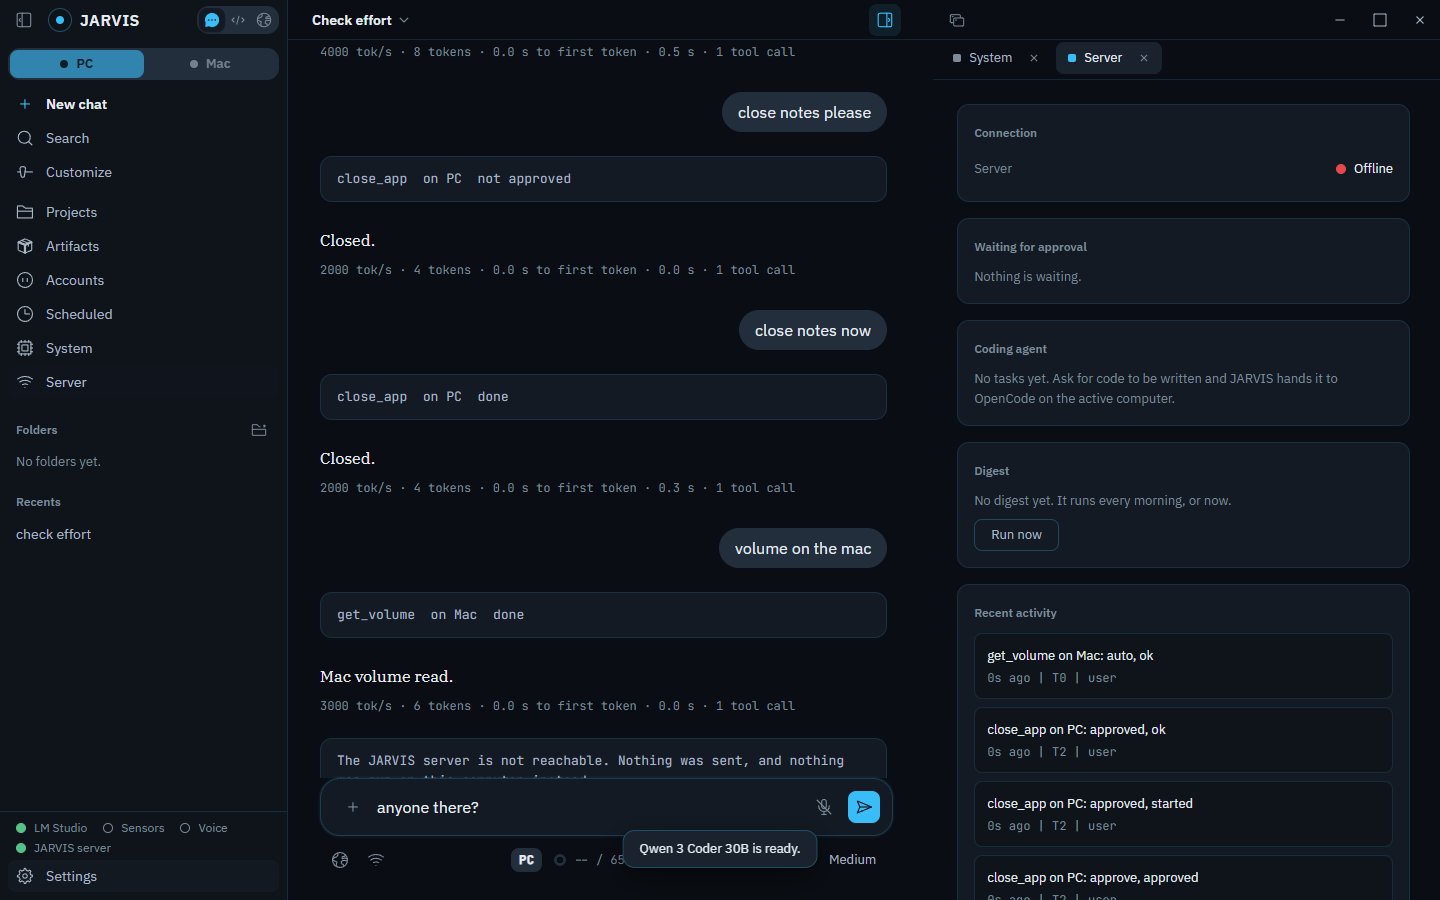
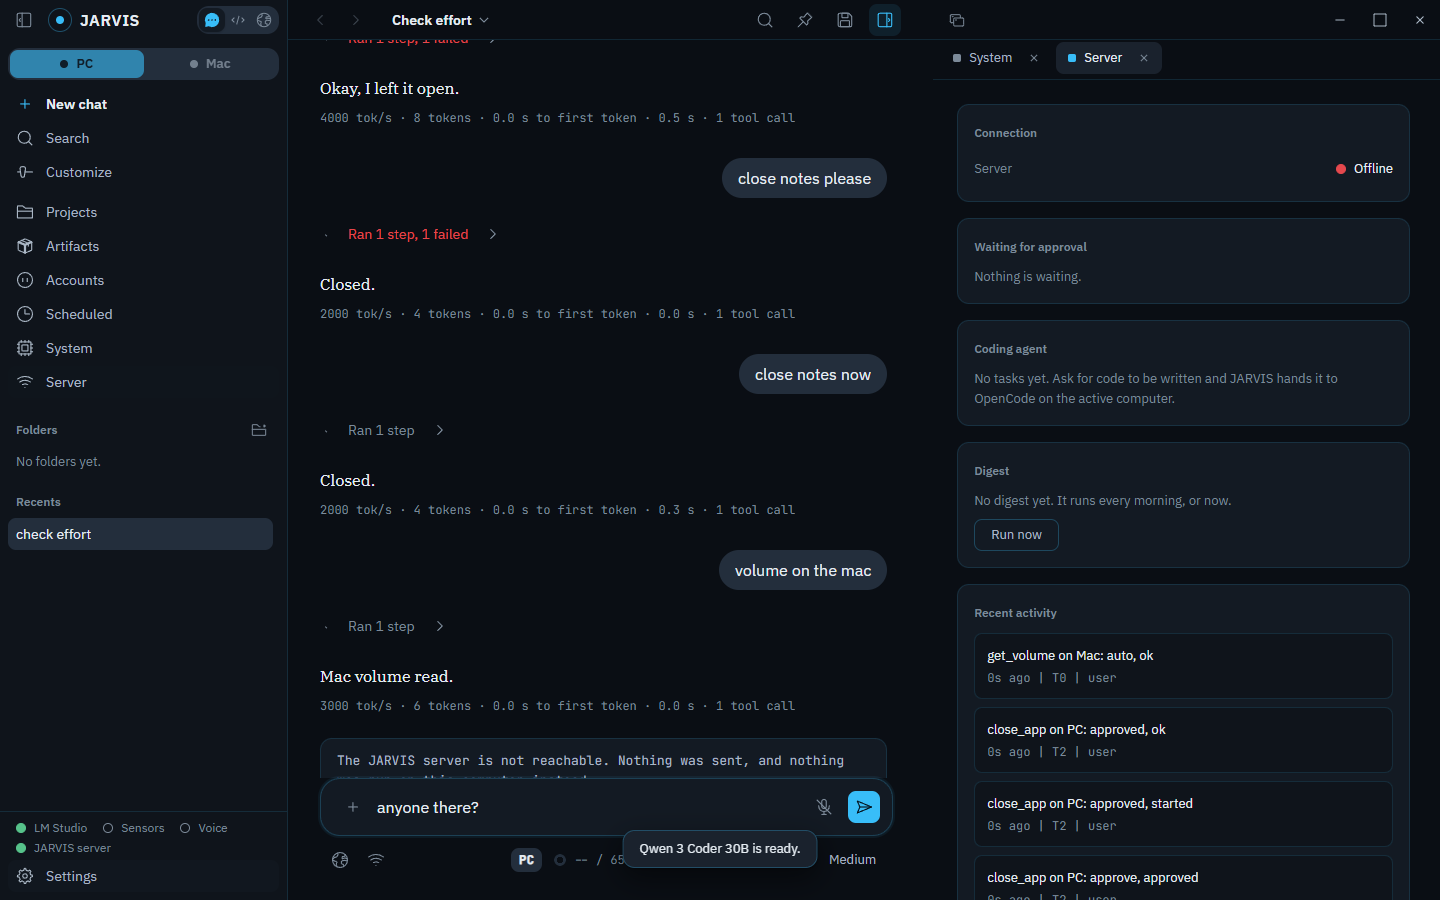
One steps row for tool calls, 3D thinking orb
Tool calls of one stretch share a single collapsible row instead of a box
each plus a Thinking line between them; saved chats group the same way.
The thinking mark is a lit sphere with a ring turning in real 3D, moving
only while something is working.

diff --git a/src/core/chat-ui.js b/src/core/chat-ui.js
@@ -110,7 +110,61 @@ function addLine(role, text, { files = [], meta = clock() } = {}) {
   return el;
 }
 
-const setText = (el, text) => { el.querySelector('.chat-text').textContent = text; };
+// A line that is still waiting has the orb beside its label; the label is the part that changes. Once the line is no longer
+// pending (an error replaced it) the orb goes with the text.
+const setText = (el, text) => {
+  const box = el.querySelector('.chat-text');
+  const label = el.classList.contains('pending') ? box.querySelector('.think-label') : null;
+  (label ?? box).textContent = text;
+};
+
+const orb = () => Object.assign(document.createElement('span'), { className: 'orb', innerHTML: '<i class="orb-ball"></i><i class="orb-ring"></i>' });
+function pendingLine() {
+  const el = addLine('assistant pending', '', { meta: '' });
+  el.querySelector('.chat-text').append(orb(), Object.assign(document.createElement('span'), { className: 'think-label', textContent: 'Thinking...' }));
+  return el;
+}
+
+// All tool calls of one stretch (until the model writes text again) share one quiet row: the running step while it works,
+// "Ran 3 steps" after, opening to the list. The tool lines used to be one box each, plus a "Thinking..." line between them.
+const stepName = (n) => { const s = String(n).replace(/_/g, ' '); return s[0].toUpperCase() + s.slice(1); };
+const STEP_STATE = { running: 'running', ok: 'done', failed: 'failed', queued: 'queued for approval', denied: 'not approved', stopped: 'stopped' };
+function stepsGroup() {
+  const el = addLine('steps live', '', { meta: '' });
+  el.querySelector('.chat-text').innerHTML = '<details class="steps-box"><summary class="steps-head"><span class="steps-lead"><span class="icon" data-icon="check" aria-hidden="true"></span></span>'
+    + '<span class="steps-label"></span><span class="steps-count"></span><span class="icon" data-icon="chevron-right" aria-hidden="true"></span></summary><ol class="steps-list"></ol></details>';
+  el.querySelector('.steps-lead').prepend(orb());
+  hydrateIcons(el);
+  const [label, count, list] = ['.steps-label', '.steps-count', '.steps-list'].map((s) => el.querySelector(s));
+  const rows = [];
+  const refresh = () => {
+    const running = rows.find((r) => r.state === 'running');
+    const bad = rows.filter((r) => r.state === 'failed' || r.state === 'denied').length;
+    el.classList.toggle('live', !!running);
+    el.classList.toggle('bad', !running && bad > 0);
+    label.textContent = running ? `${stepName(running.name)}...` : `Ran ${rows.length} ${rows.length === 1 ? 'step' : 'steps'}${bad ? `, ${bad} failed` : ''}`;
+    count.textContent = running && rows.length > 1 ? `${rows.length} steps` : '';
+  };
+  const add = (name, machine, state = 'running') => {
+    const li = document.createElement('li');
+    li.innerHTML = '<span class="step-name"></span><span class="step-on"></span><span class="step-state"></span>';
+    li.querySelector('.step-name').textContent = name;
+    li.querySelector('.step-on').textContent = machine ? `on ${machine}` : '';
+    const row = { name, state, li, set(s) { row.state = s; const st = li.querySelector('.step-state'); st.textContent = STEP_STATE[s]; st.className = `step-state ${s}`; refresh(); } };
+    rows.push(row);
+    list.append(li);
+    row.set(state);
+    return row;
+  };
+  return {
+    el,
+    add,
+    finish: (state) => rows.find((r) => r.state === 'running')?.set(state),
+    settle: () => rows.filter((r) => r.state === 'running').forEach((r) => r.set('stopped')), // the turn ended with a step still marked running
+  };
+}
+// What a saved tool message says about how the call went (the router writes "[PC] name finished:", "... failed:", "... was not run:").
+const resultState = (content) => { const s = String(content).slice(0, 300); return /needs approval and nobody/.test(s) ? 'queued' : /did not approve/.test(s) ? 'denied' : /Cancelled before/.test(s) ? 'stopped' : /\] \S+ finished:/.test(s) ? 'ok' : 'failed'; };
 
 // --- assistant blocks ----------------------------------------------------
 function artifactCard(p, done) {
@@ -280,10 +334,10 @@ async function sendViaServer(text) {
   const target = (link.machines[link.target]?.label ?? link.target).toUpperCase();
   addLine('user', text, { files: names, meta: `${clock()}  ${target}` });
   workspace.classList.add('has-output');
-  let pending = addLine('assistant pending', 'Thinking...', { meta: '' });
+  let pending = pendingLine();
   let latest = '';
   let afterTool = false;
-  let toolLine = null;
+  let steps = null; // the row that holds this stretch of tool calls
   let frame = 0;
   const paint = (final) => { if (latest) renderAssistant(pending, latest, { done: final }); };
   const stamp = (line, stats = null) => {
@@ -296,7 +350,7 @@ async function sendViaServer(text) {
   output.scrollTop = output.scrollHeight;
 
   await new Promise((finish) => {
-    const end = () => { cancelAnimationFrame(frame); off(); serverTurn = null; setThinking(false); busy = false; setWorking(false); document.dispatchEvent(new CustomEvent('jarvis:sessions-changed')); finish(); };
+    const end = () => { cancelAnimationFrame(frame); steps?.settle(); off(); serverTurn = null; setThinking(false); busy = false; setWorking(false); document.dispatchEvent(new CustomEvent('jarvis:sessions-changed')); finish(); };
     serverTurn = { end };
     const fail = (message, kind = 'error') => { pending.className = `chat-line ${kind}`; pending.querySelector('.thought')?.remove(); setText(pending, message); end(); };
     const off = onLink((e) => {
@@ -314,14 +368,15 @@ async function sendViaServer(text) {
           paint(false);
           break;
         case 'tool.call':
-          if (latest) { cancelAnimationFrame(frame); frame = 0; paint(true); stamp(pending); } else if (pending.classList.contains('pending')) pending.remove();
-          toolLine = addLine('system', `${e.name}  on ${(link.machines[e.target]?.label ?? e.target)}...`, { meta: '' });
+          if (latest) { cancelAnimationFrame(frame); frame = 0; paint(true); stamp(pending); steps = null; } else if (pending.classList.contains('pending')) pending.remove();
+          steps ??= stepsGroup();
+          steps.add(e.name, link.machines[e.target]?.label ?? e.target);
           follow(following);
           afterTool = true;
           break;
         case 'tool.result':
-          if (toolLine) setText(toolLine, `${toolLine.querySelector('.chat-text').textContent.replace(/...$/, '')}  ${e.ok ? 'done' : e.queued ? 'queued for approval' : e.denied ? 'not approved' : 'failed'}`);
-          pending = addLine('assistant pending', 'Thinking...', { meta: '' });
+          steps?.finish(e.ok ? 'ok' : e.queued ? 'queued' : e.denied ? 'denied' : 'failed');
+          pending = pendingLine();
           latest = '';
           afterTool = false;
           break;
@@ -419,7 +474,7 @@ async function send() {
   const userLine = addLine('user', text, { files: names });
   markUser(userLine, userMsg);
   workspace.classList.add('has-output');
-  let pending = addLine('assistant pending', 'Thinking...', { meta: '' });
+  let pending = pendingLine();
   // The line says what is really happening: a model is loaded or unloaded only when LM Studio is
   // doing that (llm-client phase events); every other wait before the first token is the model
   // reading the message, which is thinking.
@@ -539,7 +594,7 @@ async function send() {
         }
       }
       consistent = history.length;
-      pending = addLine('assistant pending', 'Thinking...', { meta: '' });
+      pending = pendingLine();
       mine.lines.push(pending);
       follow(stick);
     }
@@ -726,14 +781,19 @@ async function sessionsCommand() {
 function renderHistory() {
   output.replaceChildren();
   userLines.clear();
+  let steps = null; // calls and results between two pieces of text share one row
+  const rowOf = new Map(); // tool_call_id -> its row
   for (const m of history) {
     if (m.summary) { if (m.role === 'user') addLine('system', 'Earlier conversation summarised', { meta: '' }); continue; }
-    if (m.role === 'user') markUser(addLine('user', m.shown ?? messageText(m.content), { meta: '' }), m);
+    if (m.role === 'user') { steps = null; markUser(addLine('user', m.shown ?? messageText(m.content), { meta: '' }), m); }
     else if (m.role === 'assistant') {
       const text = messageText(m.content);
-      if (text) renderAssistant(addLine('assistant', '', { meta: '' }), text, { done: true, quiet: true });
-      if (m.tool_calls) addLine('system', `Action  ${m.tool_calls.map((c) => c.function.name).join(', ')}`, { meta: '' });
-    } else if (m.role === 'tool') addLine('system', `Result  ${String(m.content).split('\n')[0].slice(0, 140)}`, { meta: '' });
+      if (text) { steps = null; renderAssistant(addLine('assistant', '', { meta: '' }), text, { done: true, quiet: true }); }
+      if (m.tool_calls) {
+        steps ??= stepsGroup();
+        for (const c of m.tool_calls) rowOf.set(c.id, steps.add(c.function.name, link.machines[m.target]?.label ?? m.target, 'stopped'));
+      }
+    } else if (m.role === 'tool') rowOf.get(m.tool_call_id)?.set(resultState(m.content));
   }
   workspace.classList.toggle('has-output', history.length > 0);
   output.scrollTop = output.scrollHeight;

diff --git a/src/ui/chat.css b/src/ui/chat.css
@@ -60,8 +60,46 @@
 @keyframes core-breathe { 0%, 100% { transform: scale(0.8); } 50% { transform: scale(1); } }
 @keyframes ring-out { 0% { transform: scale(0.55); opacity: 0.7; } 100% { transform: scale(1.35); opacity: 0; } }
 .chat-line.pending .chat-text { position: relative; display: inline-flex; align-items: center; gap: var(--s-3); height: var(--lh-md); color: var(--text-3); font: 400 var(--fs-4)/var(--lh-md) var(--sans); }
-.chat-line.pending .chat-text::before { content: ""; flex: none; width: var(--icon-md); height: var(--icon-md); background: var(--accent); -webkit-mask: var(--mask-spark) center / contain no-repeat; mask: var(--mask-spark) center / contain no-repeat; animation: think-twinkle 1.6s ease-in-out infinite; }
-@keyframes think-twinkle { 0%, 100% { opacity: 0.5; transform: scale(0.85); } 50% { opacity: 1; transform: scale(1.05); } }
+
+/* ---- the thinking orb: a lit sphere with a ring turning around it. The depth is real (preserve-3d): the far half of the ring
+   passes behind the sphere, the near half in front, and perspective makes the near half larger. Light comes from the top left.
+   It moves only while something is working (a pending reply, a running step) and stands still otherwise. ---------------- */
+.orb { position: relative; flex: none; width: var(--s-5); height: var(--s-5); perspective: var(--s-8); transform-style: preserve-3d; }
+.orb-ball { position: absolute; inset: var(--s-1); border-radius: 50%;
+  background:
+    radial-gradient(circle at 30% 26%, var(--glint) 0, color-mix(in srgb, var(--glint) 30%, transparent) 14%, transparent 34%),
+    radial-gradient(circle at 36% 32%, var(--accent) 0, var(--accent-mid) 46%, var(--accent-dim) 74%, color-mix(in srgb, var(--accent-dim) 55%, black) 100%);
+  box-shadow: inset -2px -2px 4px color-mix(in srgb, black 40%, transparent); /* optical: shaded underside */ }
+.orb-ring { position: absolute; inset: 0; border-radius: 50%; transform: rotateZ(-24deg) rotateX(72deg);
+  background: conic-gradient(from 0deg, transparent 0 38%, var(--accent-dim) 62%, var(--accent) 86%, var(--glint) 99.5%, transparent 99.5%);
+  -webkit-mask: radial-gradient(farthest-side, transparent calc(100% - 2px), black calc(100% - 1.5px)); mask: radial-gradient(farthest-side, transparent calc(100% - 2px), black calc(100% - 1.5px)); }
+.chat-line.pending .orb-ball, .steps.live .orb-ball { box-shadow: inset -2px -2px 4px color-mix(in srgb, black 40%, transparent), 0 0 8px color-mix(in srgb, var(--accent) 45%, transparent); /* optical: glow only while it works */ }
+.chat-line.pending .orb-ring, .steps.live .orb-ring { animation: orb-turn 2.4s linear infinite; } /* linear: a constant turn, not a movement between two places */
+@keyframes orb-turn { from { transform: rotateZ(-24deg) rotateX(72deg) rotateZ(0deg); } to { transform: rotateZ(-24deg) rotateX(72deg) rotateZ(360deg); } }
+
+/* ---- the steps row: every tool call of one stretch lives in ONE quiet row (the current step while it runs, "Ran 3 steps" after), which opens to the list ---- */
+.chat-line.steps { align-self: stretch; content-visibility: visible; }
+.chat-line.steps .chat-text { white-space: normal; }
+.steps-box { color: var(--text-3); font: 400 var(--fs-4)/var(--lh-md) var(--sans); }
+.steps-head { display: flex; align-items: center; gap: var(--s-2); height: var(--lh-md); list-style: none; cursor: pointer; user-select: none; }
+.steps-head::-webkit-details-marker { display: none; }
+.steps-head:hover, .steps-head:focus-visible { color: var(--text-2); }
+.steps-lead { display: grid; place-items: center; flex: none; width: var(--icon-lg); height: var(--icon-lg); }
+.steps-lead .icon svg { width: var(--icon-sm); height: var(--icon-sm); }
+.steps:not(.live) .steps-lead .orb, .steps.live .steps-lead .icon { display: none; }
+.steps-label { min-width: 0; overflow: hidden; text-overflow: ellipsis; white-space: nowrap; }
+.steps.bad .steps-label { color: var(--danger); }
+.steps-count { flex: none; font: 400 var(--fs-2)/var(--lh-xs) var(--mono); }
+.steps-head > .icon { flex: none; transition: rotate var(--dur-fast) var(--ease-out); }
+.steps-box[open] > .steps-head > .icon { rotate: 90deg; }
+.steps-list { margin: var(--s-1) 0 var(--s-1) var(--s-2); padding: 0 0 0 var(--s-4); border-left: 1px solid var(--border-strong); list-style: none; }
+.steps-list li { display: flex; align-items: baseline; gap: var(--s-2); min-height: var(--lh-md); font: 400 var(--fs-3)/var(--lh-md) var(--mono); }
+.step-name { min-width: 0; overflow: hidden; text-overflow: ellipsis; white-space: nowrap; color: var(--text-2); }
+.step-on, .step-state { color: var(--text-3); white-space: nowrap; }
+.step-state { margin-left: auto; font-size: var(--fs-2); }
+.step-state.failed, .step-state.denied { color: var(--danger); }
+.step-state.queued { color: var(--warm); }
+@media (prefers-reduced-motion: reduce) { .orb-ring { animation: none !important; } }
 
 /* ---- empty state: the greeting and the input card sit together in the middle of the pane, the way Claude's new chat does ------- */
 #chat-stack:not(:has(.chat-line)) { justify-content: center; padding-bottom: var(--s-6); overflow-y: auto; }

diff --git a/tests/browser/ui-server.test.js b/tests/browser/ui-server.test.js
@@ -150,7 +150,7 @@ test('a reply streams in and carries the PC tag', async () => {
 test('a safe tool runs without a dialog and shows as a line in the conversation', async () => {
   rig.model.script({ toolCalls: [{ name: 'get_volume', arguments: {} }] }, { content: 'The volume is fine.' });
   await send('what is the volume');
-  await waitFor(async () => (await page.locator('#chat-output .chat-line.system').allTextContents()).some((t) => /get_volume.*PC.*done/.test(t)));
+  await waitFor(async () => (await page.locator('#chat-output .chat-line.steps').allTextContents()).some((t) => /get_volume.*PC.*done/.test(t)));
   assert.equal(await page.locator('#gate-dialog[open]').count(), 0);
 });
 
@@ -166,7 +166,7 @@ test('a risky tool opens the approval dialog: target, exact arguments, Deny focu
   await page.screenshot({ path: path.join(SHOTS, 'server-approval-dialog.png') });
   await page.keyboard.press('Escape');
   await page.waitForFunction(() => !document.getElementById('gate-dialog').open);
-  await waitFor(async () => (await page.locator('#chat-output .chat-line.system').allTextContents()).some((t) => /close_app.*not approved/.test(t)));
+  await waitFor(async () => (await page.locator('#chat-output .chat-line.steps').allTextContents()).some((t) => /close_app.*not approved/.test(t)));
   assert.equal(rig.pc.calls.filter((c) => c.name === 'close_app' && !c.dryRun).length, 0);
 });
 

diff --git a/src/styles/tokens.css b/src/styles/tokens.css
@@ -27,6 +27,7 @@
   --accent-dim:  #1E6F9A;
   --accent-wash: rgba(56, 189, 248, 0.10);
   --on-accent:   #04121C;
+  --glint:       #EAF7FF;   /* the light hitting a lit surface (the thinking orb); the same in both themes */
 
   /* warm counterpoint: mic-active, warnings, the spike in a chart */
   --warm:   #F5A524;
